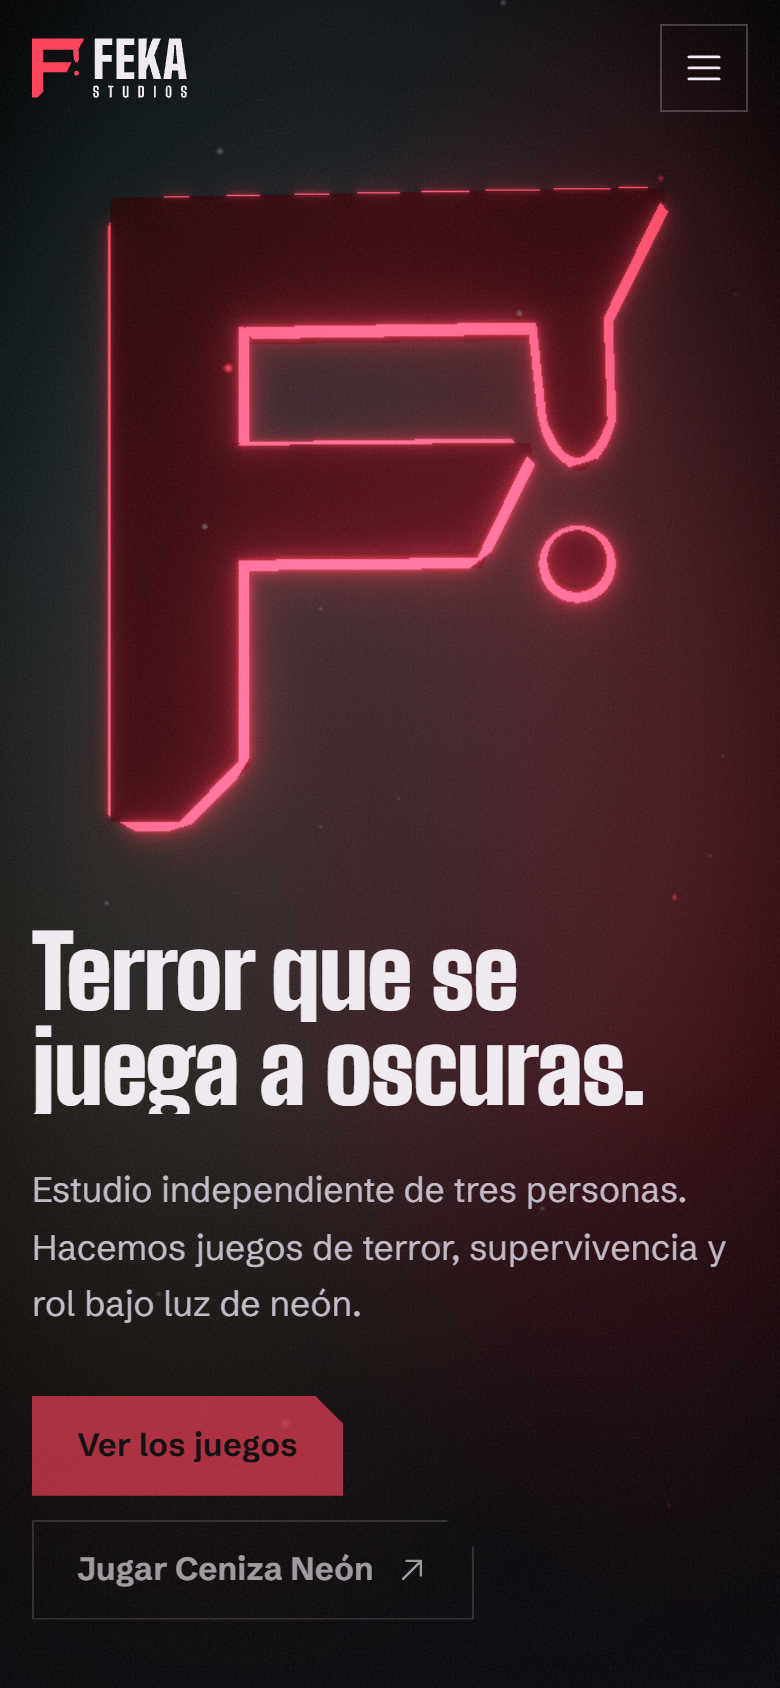
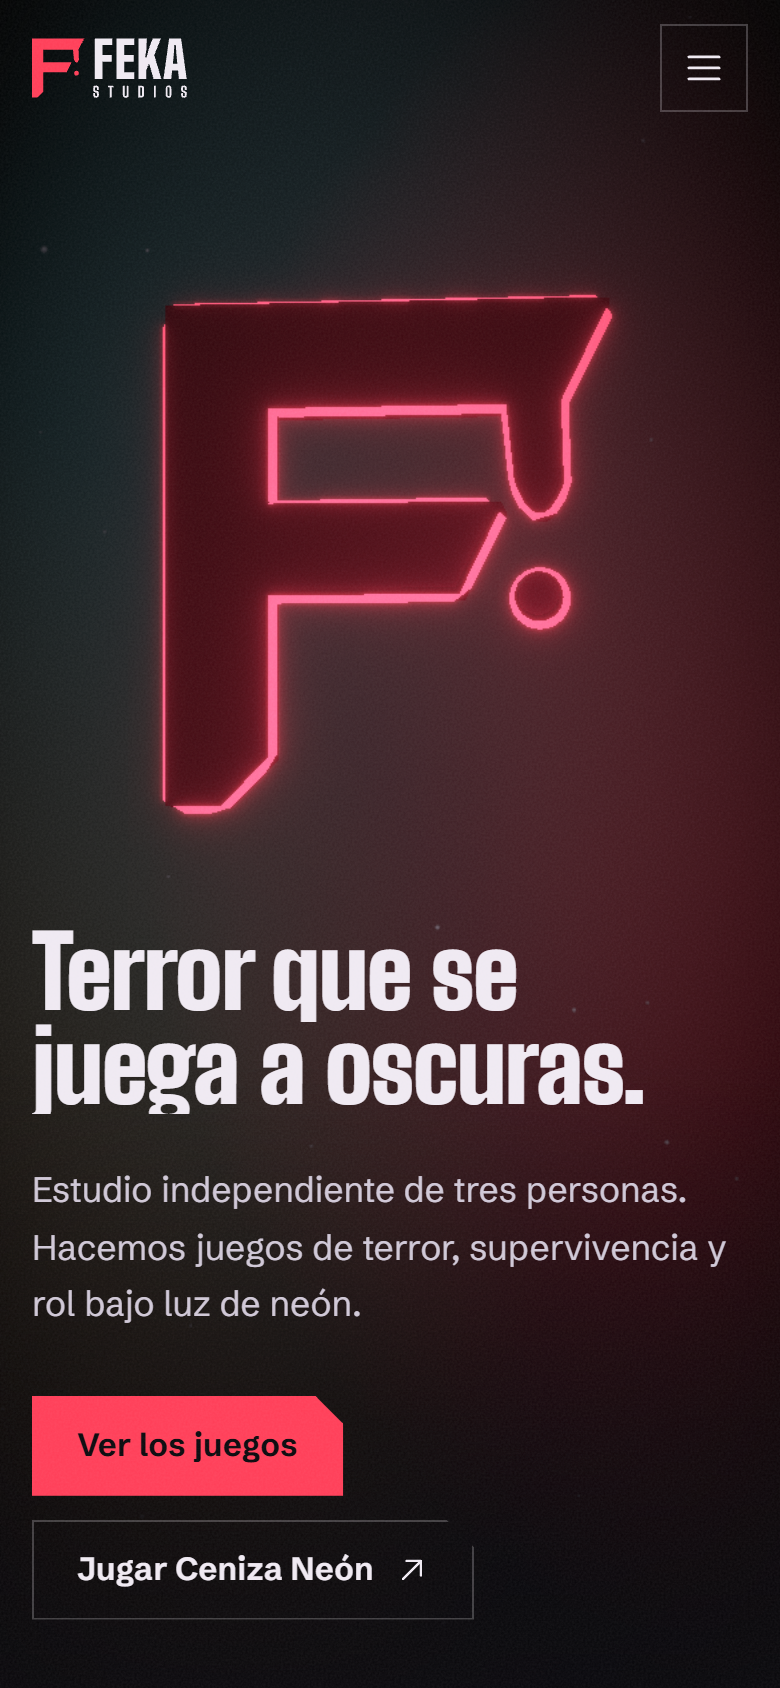
Ajusta la marca 3D en móvil y actualiza capturas

diff --git a/src/components/HeroScene.tsx b/src/components/HeroScene.tsx
@@ -90,7 +90,7 @@ function Sigil({ progress, reduced }: { progress: { current: number }; reduced: 
     const f = reduced ? 1 : flicker(t);
 
     const baseX = narrow ? 0 : 1.95;
-    const baseY = narrow ? 0.85 : 0.15;
+    const baseY = narrow ? 1.0 : 0.15;
     const px = reduced ? 0 : state.pointer.x;
     const py = reduced ? 0 : state.pointer.y;
     const k = 1 - Math.pow(0.002, delta);
@@ -105,7 +105,7 @@ function Sigil({ progress, reduced }: { progress: { current: number }; reduced: 
     if (light.current) light.current.intensity = 18 * f * (1 - p * 0.5);
   });
 
-  const s = narrow ? 0.018 : 0.021;
+  const s = narrow ? 0.0145 : 0.021;
   return (
     <group ref={group}>
       <group scale={[s, -s, s]}>
